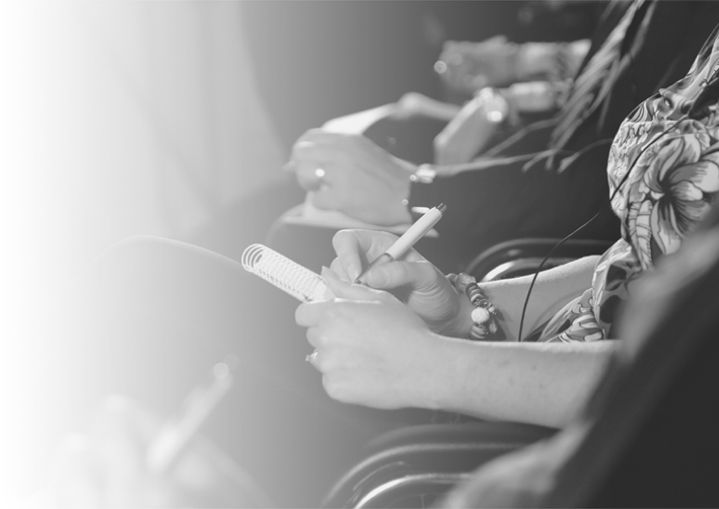
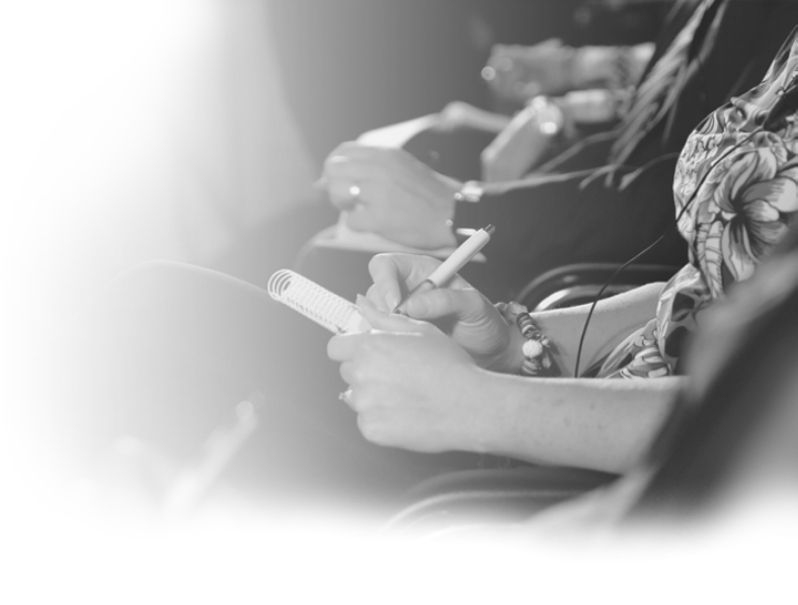
added transitions / edited photos

diff --git a/frontend/static/css/global/global.css b/frontend/static/css/global/global.css
@@ -15,7 +15,7 @@
 	width: 1280px;
 	border-style: inset;
 	border: 10px solid white;
-	margin-top: 30px;
+	margin-top: 10px;
 	margin-left: auto;
 	margin-right: auto;
 	display: grid;
@@ -23,9 +23,19 @@
 	overflow: hidden;
 }
 
+@keyframes fadein {
+	from {
+		opacity: 0;
+	}
+	to {
+		opacity: 1;
+	}
+}
+
 section.text {
 	grid-area: txt;
 	padding-left: 64px;
+	animation: fadein 0.75s;
 	z-index: 3;
 }
 
@@ -36,13 +46,14 @@ section.picture {
 	justify-content: flex-start;
 	/* align-items: flex-end; */
 	padding-top: 30px;
+	animation: fadein 1s;
 	z-index: 2;
 }
 
 section.picture img {
 	position: relative;
-	/* object-fit: cover; */
 	height: 100%;
+	/* object-fit: cover; */
 }
 
 #preisrechner-hook {
@@ -54,6 +65,7 @@ section.picture img {
 	bottom: 0;
 	z-index: 15;
 	display: none;
+	animation: fadein 0.5s;
 	border: 1px solid green;
 	transition: 0s;
 	padding: 0;
@@ -182,7 +194,8 @@ h2 {
 	font-weight: 300;
 	font-size: 20px;
 	line-height: 164%;
-	margin-top: 16px;
+	margin-top: 8px;
+	/* padding-right: 96px; */
 	color: var(--default-grey);
 	white-space: pre-wrap;
 }

diff --git a/frontend/frontend.js b/frontend/frontend.js
@@ -54,8 +54,6 @@ const findSpecificCSS = (pageTitle) => {
 	try {
 		if (fs.existsSync(`./static/css/specific/${pageTitle}.css`)) {
 			urlCSS = `./static/css/specific/${pageTitle}.css`;
-			console.log(`found${pageTitle}`);
-			console.log(urlCSS);
 			return urlCSS;
 		}
 	} catch (err) {
@@ -117,7 +115,6 @@ app.use(function (req, res, next) {
 //////////////////////////////////
 app.get("/", (req, res) => {
 	axios.get(`${strapiURL}/index`).then((response) => {
-		console.log(response.data.card);
 		res.render("pages/index", {
 			navItems: res.locals.navItems,
 			title: "Home",
@@ -156,7 +153,6 @@ app.get(["/wackwitz", "/referenzen"], (req, res) => {
 
 app.get("/faqs", (req, res) => {
 	axios.get(`${strapiURL}/fa-qs`).then((response) => {
-		console.log(response.data);
 		res.render("pages/faqs", {
 			navItems: res.locals.navItems,
 			title: "FAQs",

diff --git a/frontend/static/css/layouts/index.css b/frontend/static/css/layouts/index.css
@@ -31,7 +31,11 @@ section.cards {
 	grid-area: cards;
 	padding: 0 64px 16px 64px;
 	background-color: white;
+	border-top: 1px solid #bfbfbf;
+	/* border-bottom: 1px solid #bfbfbf; */
 	display: flex;
+	margin-top: 16px;
+	animation: fadein 1.5s;
 	flex-direction: column;
 }
 

diff --git a/frontend/static/css/global/header.css b/frontend/static/css/global/header.css
@@ -85,7 +85,7 @@ nav li .dropdown-icon {
 	min-height: 160px;
 	background-color: rgba(255, 255, 255, 0.95);
 	z-index: 4;
-	transition: ease-in-out;
+	animation: fadein 0.3s;
 	border-bottom: 1px solid var(--default-grey);
 }
 

diff --git a/frontend/static/css/specific/leichte-sprache.css b/frontend/static/css/specific/leichte-sprache.css
@@ -1,7 +1,7 @@
 /* ----------- 1280-WIDTH */
 @media only screen and (min-width: 1280px) {
 	section.picture img {
-		left: -250px;
+		left: -190px;
 	}
 }
 

diff --git a/frontend/static/css/specific/netzwerk.css b/frontend/static/css/specific/netzwerk.css
@@ -1,7 +1,7 @@
 /* ----------- 1280-WIDTH */
 @media only screen and (min-width: 1280px) {
 	section.picture img {
-		left: -80px;
+		left: -120px;
 	}
 }
 

diff --git a/frontend/static/css/layouts/ref_ww.css b/frontend/static/css/layouts/ref_ww.css
@@ -10,6 +10,7 @@
 section.wackwitz {
 	grid-area: wackwitz;
 	margin-bottom: 16px;
+	animation: fadein 1s;
 }
 
 section.wackwitz p {
